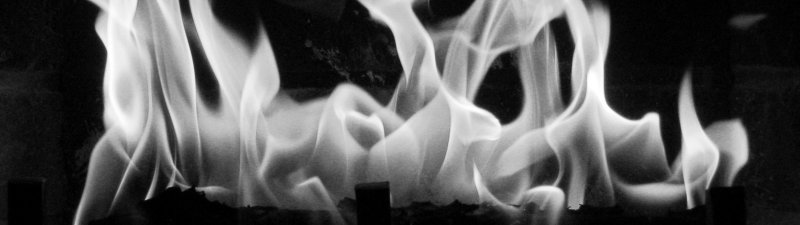
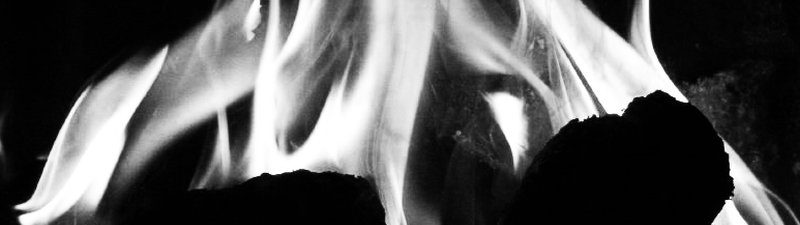
updated sources and replaced images

diff --git a/info.html b/info.html
@@ -19,7 +19,9 @@
   <li><a href="http://www.freesound.org/people/OroborosNZ/sounds/141251/">Thunder storm by OroborosNZ</a> (CC-0)</li>
   <li><a href="http://www.freesound.org/people/soundman9826/sounds/193335/">rain and thunder by soundman9826</a> (CC-0)</li>
   <li><a href="http://www.freesound.org/people/klangfabrik/sounds/194209/">rainstorm by klangfabrik</a> (CC-0)</li>
-  <li><a href="http://www.freesound.org/people/Kyster/sounds/122117/">Rain late at night by Kyster</a> (CC-0)</li>
+  <li><a href="http://www.freesound.org/people/inchadney/sounds/83986/">Fireplace by inchadney</a> (CC-Attribution) </li>
+  <li><a href="http://www.freesound.org/people/inchadney/sounds/132534/">Fireplace[2] by inchadney</a> (CC-0) </li>
+  <li><a href="http://www.freesound.org/people/inchadney/sounds/56611/">Morning in the country by inchadney</a> (CC-Attribution) </li>
   <li><a href="http://www.freesound.org/people/Audionautics/sounds/136977/">Crowd Long by Audionautics</a> (CC-Attribution)</li>
 </ul>
 
@@ -29,6 +31,8 @@
   <li><a href="http://www.flickr.com/photos/27630470@N03/7188396397/">waves by Vincent Lock</a> (CC-Attribution)</li>
   <li><a href="http://www.flickr.com/photos/fdecomite/2446195445/">lightning by fdecomite</a> (CC-Attribution)</li>
   <li><a href="http://www.flickr.com/photos/tomgrundyphoto/2637179746/">Rain Rain Go Away by Tom Grundy Photo</a> (CC-Attribution)</li>
+  <li><a href="http://www.flickr.com/photos/dr_pete/80464938/">Fire 1 by Dr. Pete</a> (CC-Attribution)</li>  
+  <li><a href="http://www.flickr.com/photos/ddebold/7913370282/">Flock of birds at Sunnyvale Baylands by Don DeBold</a> (CC-Attribution)</li>    
   <li><a href="http://www.flickr.com/photos/neo_ii/7483010074/">Coffee Shop near Times Square by Neo_II</a> (CC-Attribution)</li>
 </ul>
 
